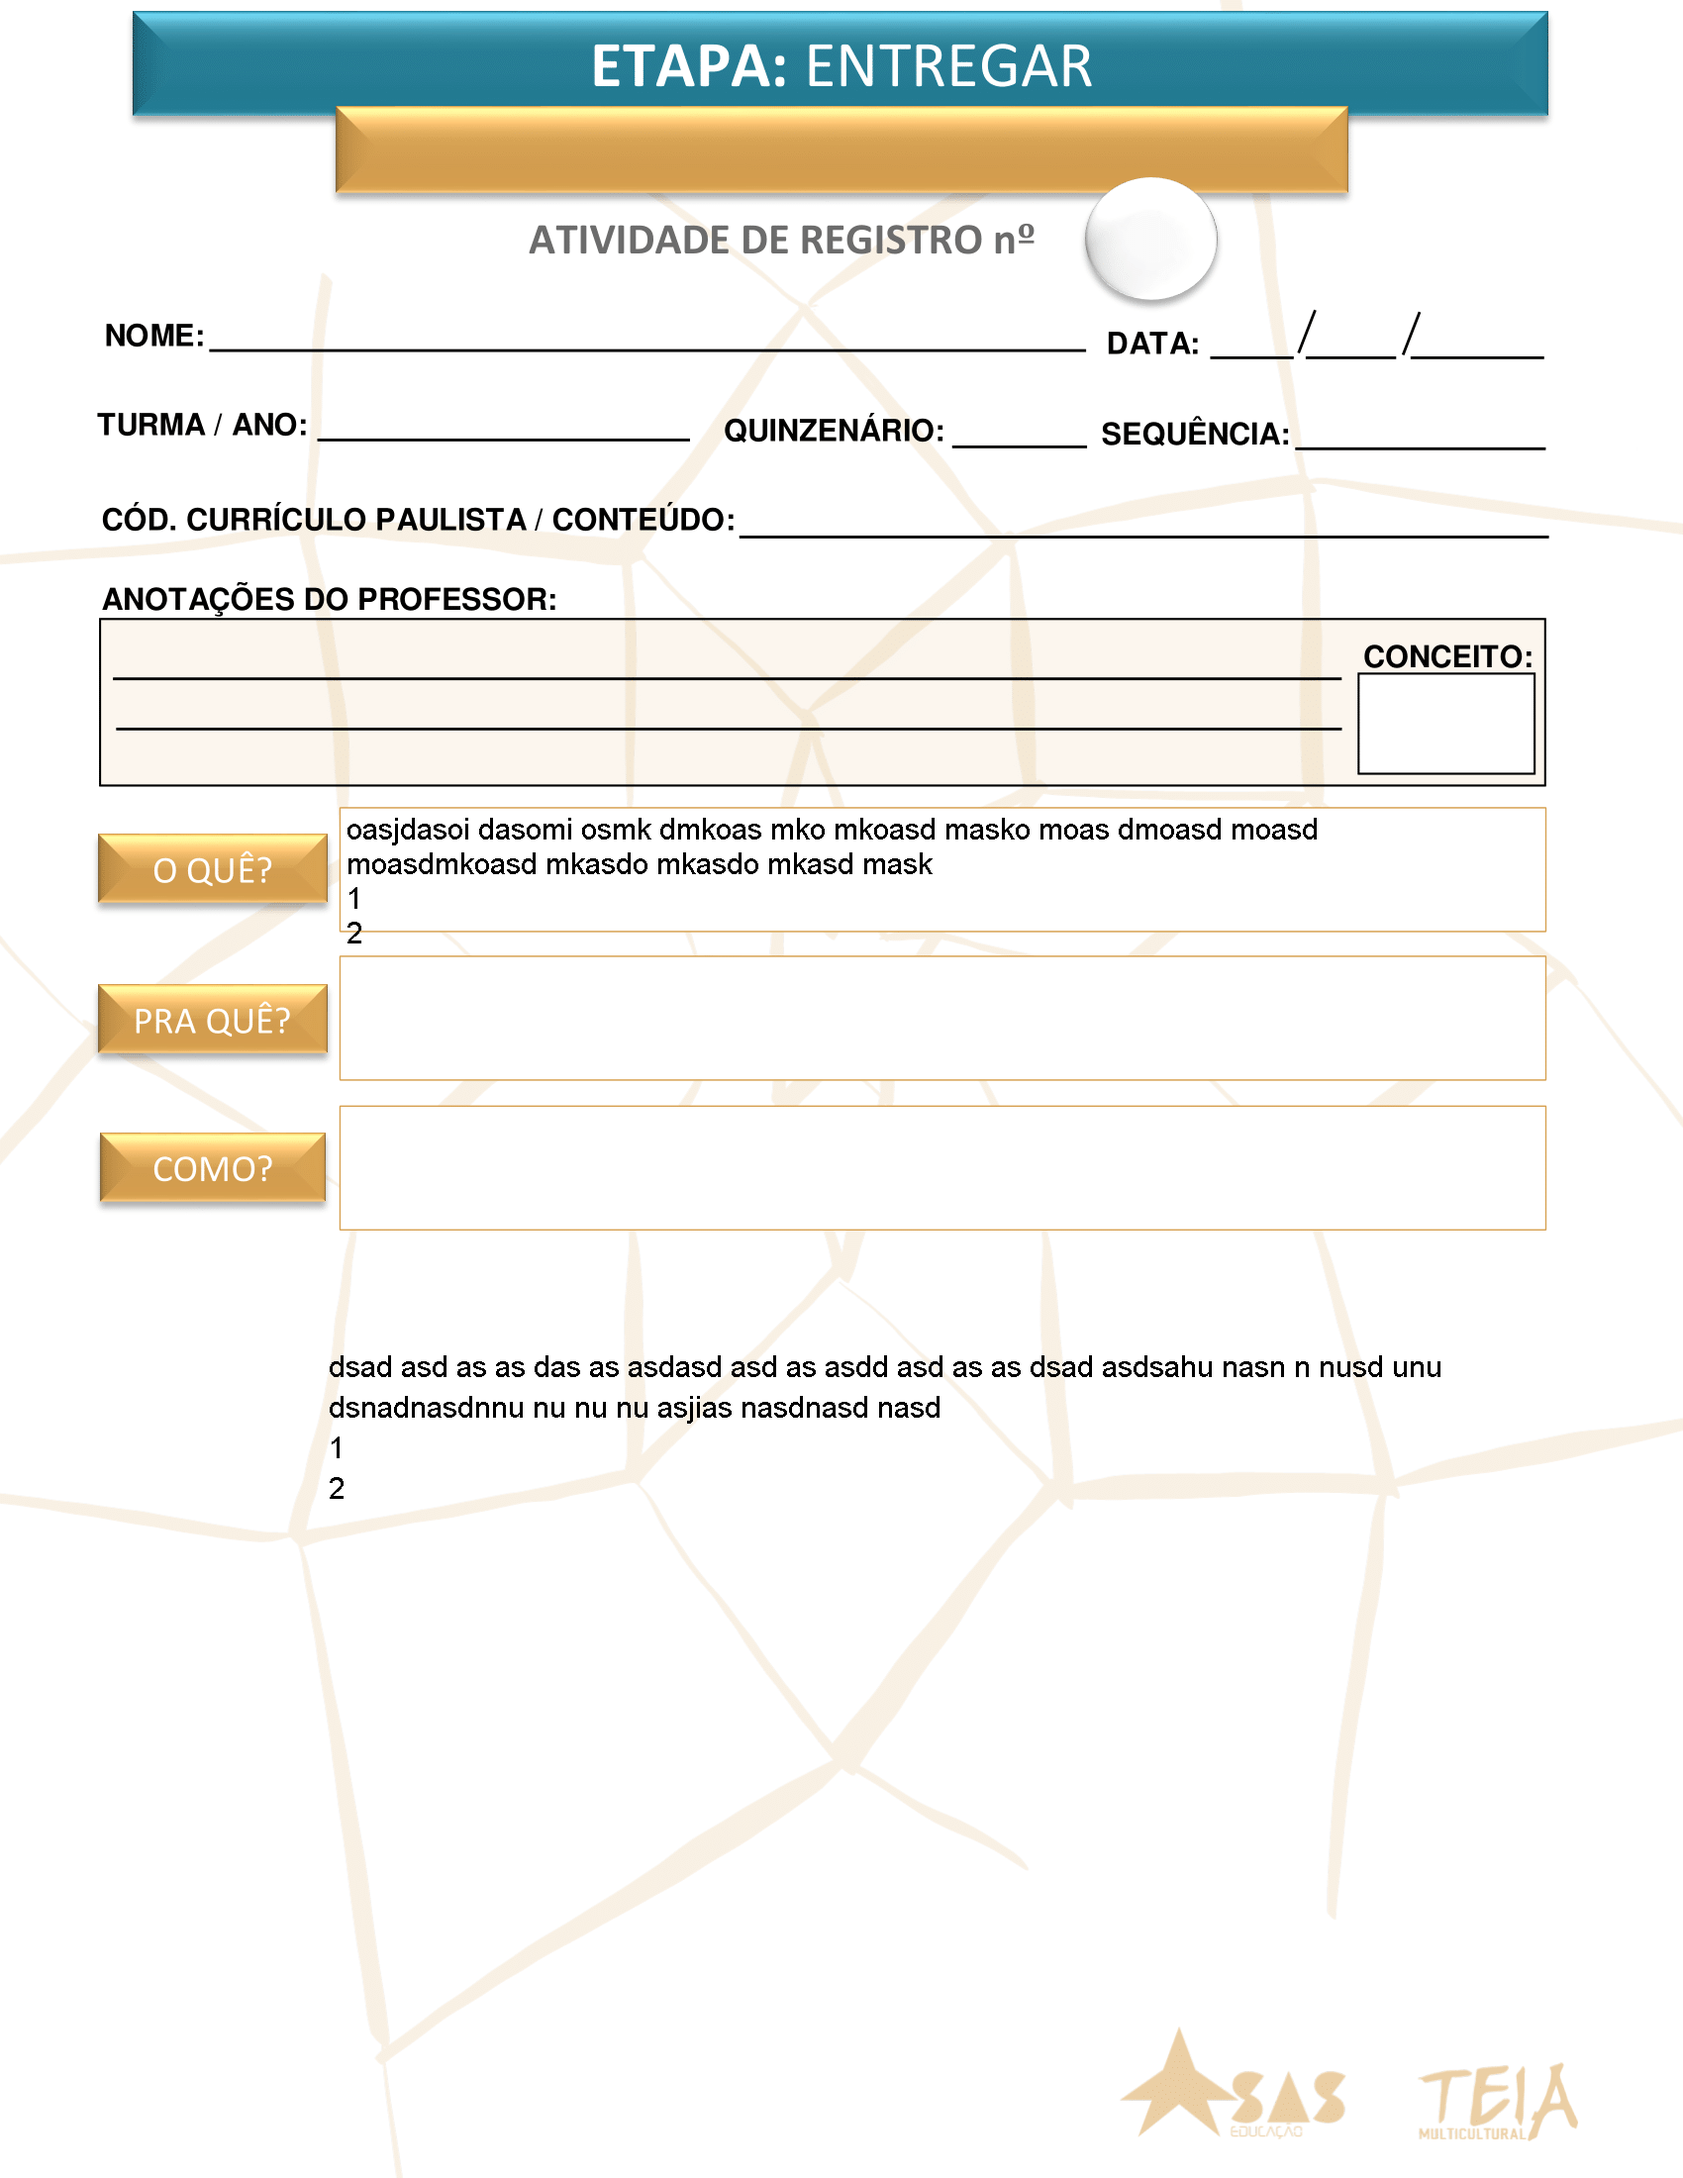
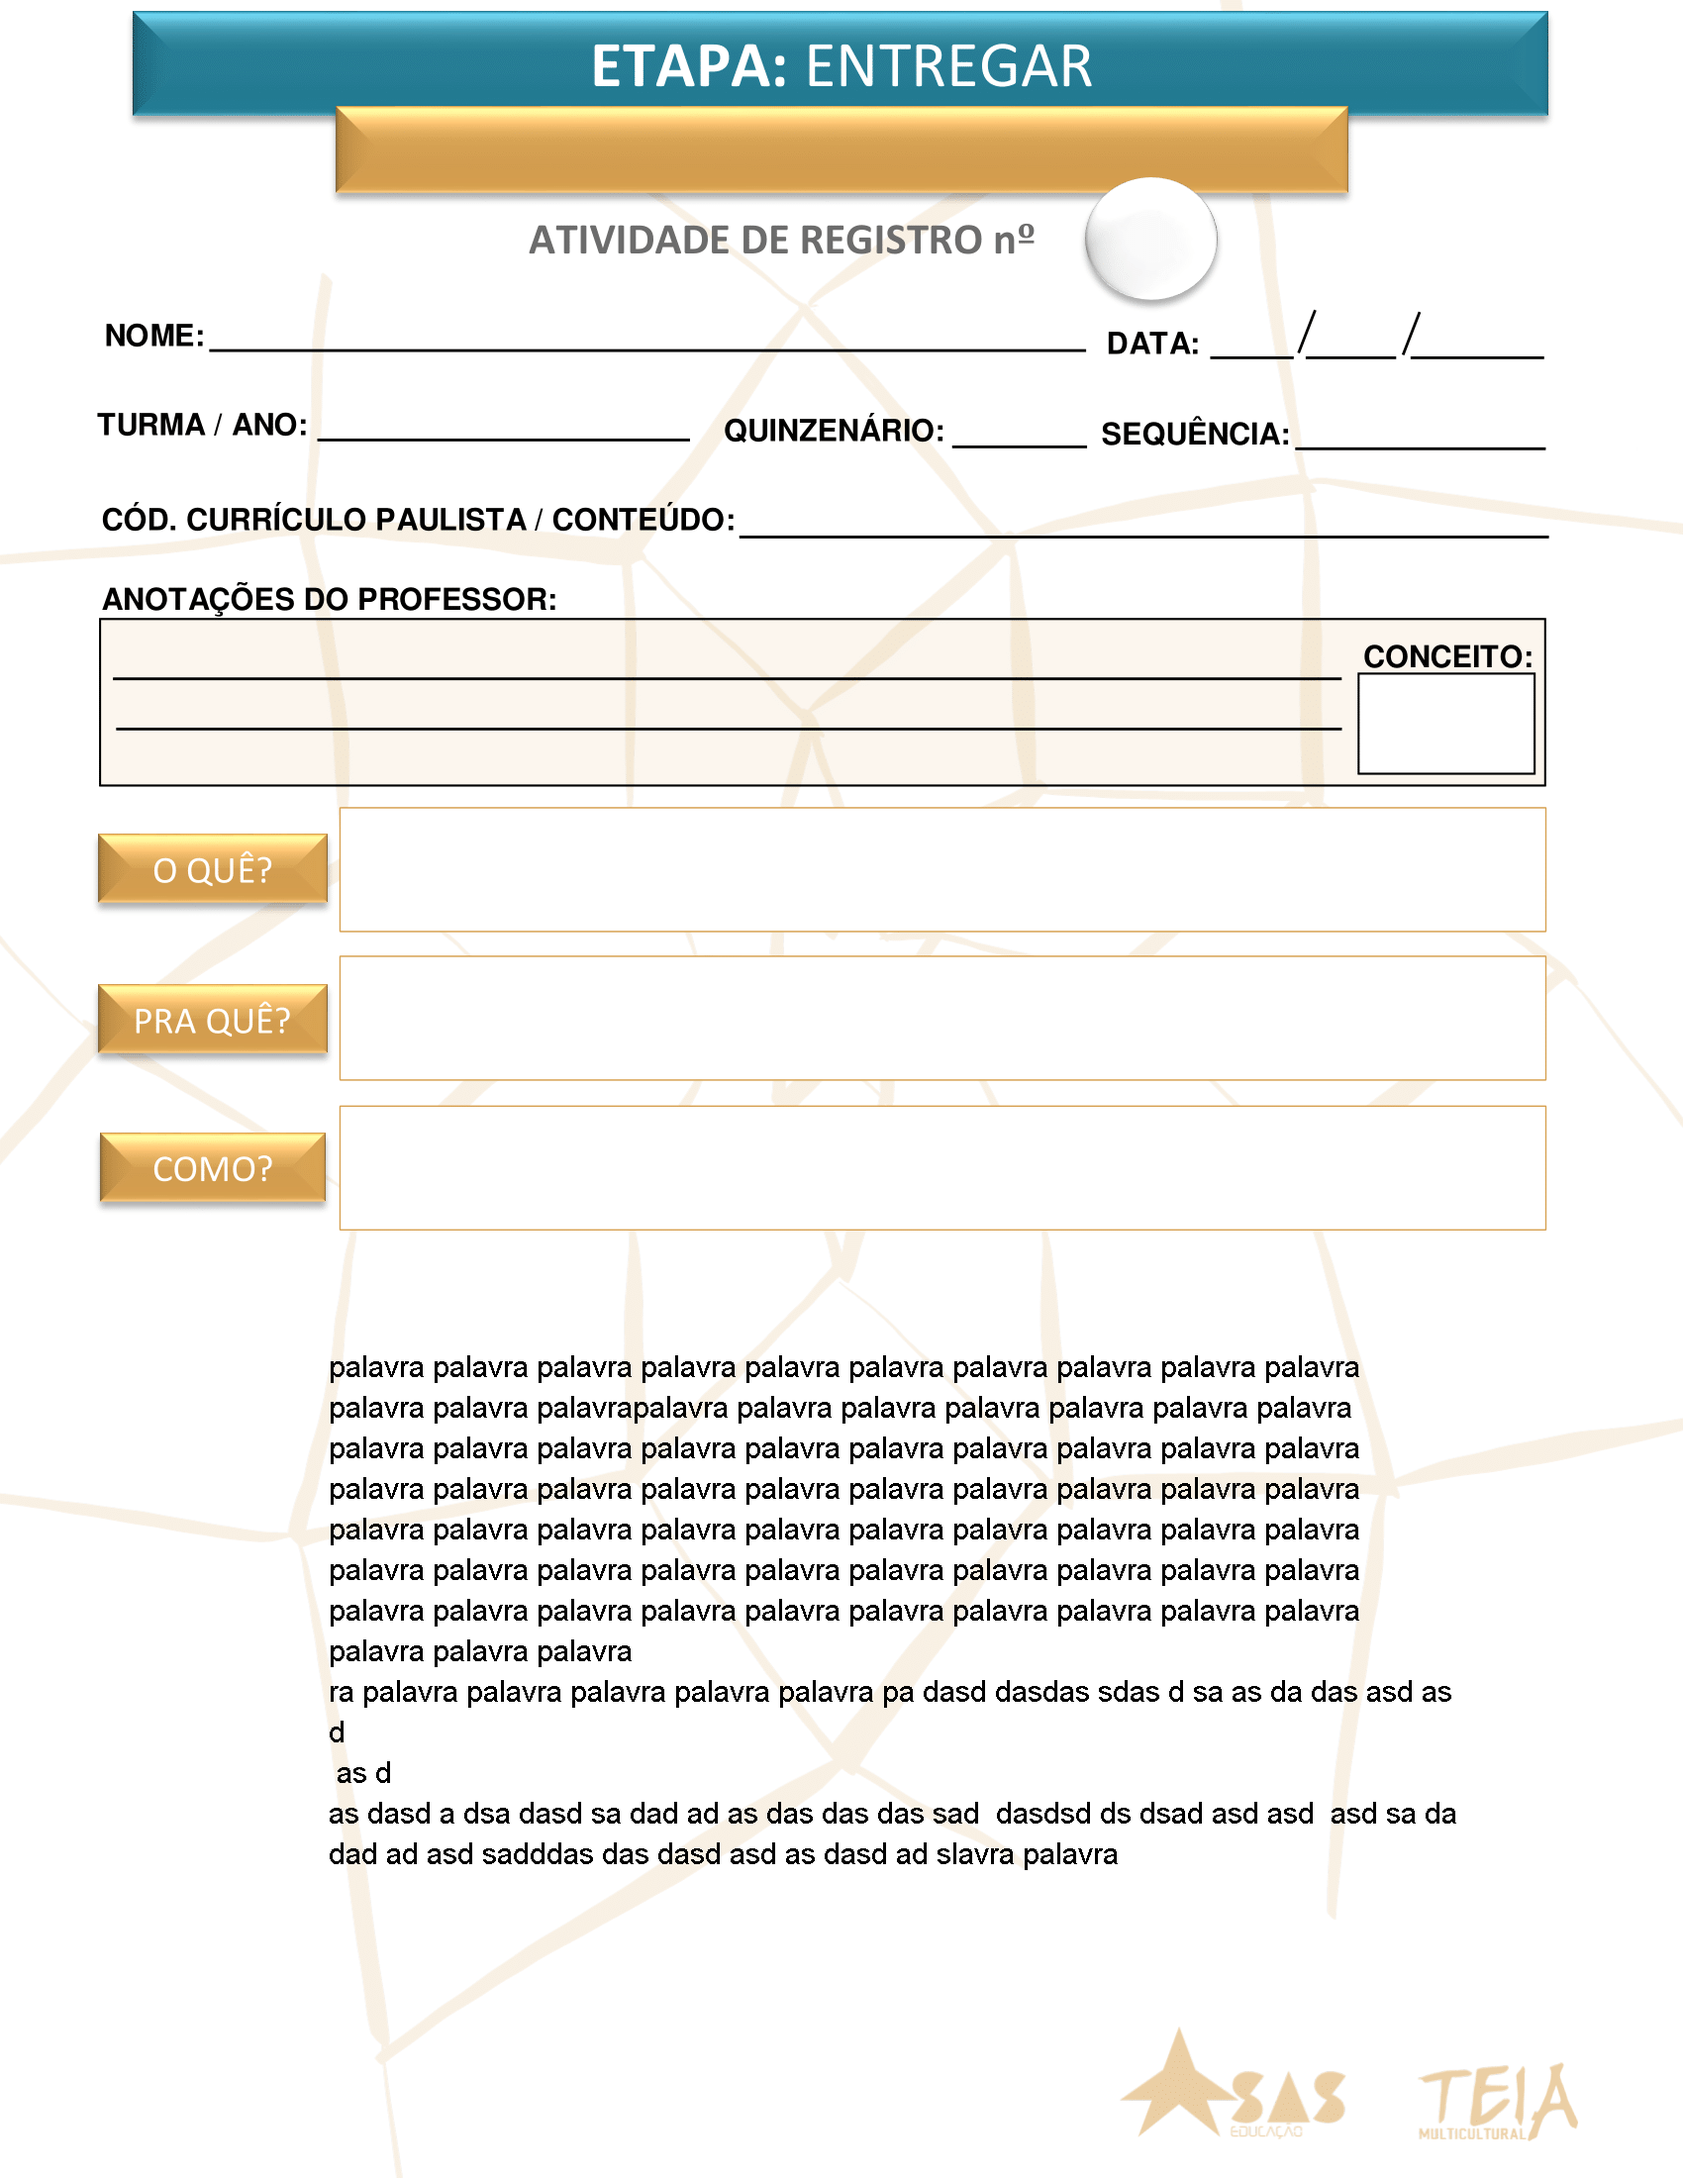
nova logica de contarl inha

diff --git a/script-preencher.py b/script-preencher.py
@@ -17,42 +17,69 @@ def validate_numbers(text):
 def sair():
     window.destroy()
 
-def criar_tudo():
-    strings = criar_primeira_pagina()
-    criar_segunda_pagina()
 
-    pdf_files = ['primeira-pagina.png', 'segunda-pagina.png']
-
-    pdf_writer = PyPDF2.PdfWriter()
-
-    for file_path in pdf_files:
-        if file_path.endswith('.pdf'):
-            with open(file_path, 'rb') as pdf_file:
-                pdf_reader = PyPDF2.PdfReader(pdf_file)
-                for page in pdf_reader.pages:
-                    pdf_writer.add_page(page)
-        elif file_path.endswith('.png'):
-            image = Image.open(file_path)
-            pdf_path = f"{file_path}.pdf"
-            image.save(pdf_path, "PDF", resolution=200)  
-            with open(pdf_path, 'rb') as pdf_file:
-                pdf_reader = PyPDF2.PdfReader(pdf_file)
-                for page in pdf_reader.pages:
-                    pdf_writer.add_page(page)
-            os.remove(pdf_path)
-
-    current_date = datetime.now().strftime("%d_%m_%Y")
-    output_folder = "ABRIR/fichas"
     
-    file_name = f"FICHA-{strings[1]}-{datetime.now().strftime('%d-%m_%Hh%M')}.pdf"
-    output_path = os.path.join(output_folder, file_name)
+def criar_tudo():
+    flag = True
+    instrucoes = instrucoes_text.get("1.0", "end")
+    num_chars = len(instrucoes)
+    num_linebreaks = instrucoes.count('\n')
+    num_lines = num_chars // 65 + num_linebreaks
+    
+    if num_lines > 18:
+        messagebox.showwarning("Limite de linhas excedido", "O texto inserido para as instruções da primeira página pode exceder o limite de linhas. Por favor, revise o texto.")
+        flag = False
+        
+    
+ 
+    instrucoes2 = instrucoes_text2.get("1.0", "end")
+    num_chars2 = len(instrucoes2)
+    num_linebreaks2 = instrucoes2.count('\n')
+    num_lines2 = num_chars2 // 65 + num_linebreaks2
+    
+    if num_lines2 > 65:
+        messagebox.showwarning("Limite de linhas excedido", "O texto inserido para as instruções da segunda página pode exceder o limite de linhas. Por favor, revise o texto.")
+        flag = False
+        
+
+    if flag == True: 
+        
+        strings = criar_primeira_pagina()
+        criar_segunda_pagina()
+
+        pdf_files = ['primeira-pagina.png', 'segunda-pagina.png']
+
+        pdf_writer = PyPDF2.PdfWriter()
+
+        for file_path in pdf_files:
+            if file_path.endswith('.pdf'):
+                with open(file_path, 'rb') as pdf_file:
+                    pdf_reader = PyPDF2.PdfReader(pdf_file)
+                    for page in pdf_reader.pages:
+                        pdf_writer.add_page(page)
+            elif file_path.endswith('.png'):
+                image = Image.open(file_path)
+                pdf_path = f"{file_path}.pdf"
+                image.save(pdf_path, "PDF", resolution=200)  
+                with open(pdf_path, 'rb') as pdf_file:
+                    pdf_reader = PyPDF2.PdfReader(pdf_file)
+                    for page in pdf_reader.pages:
+                        pdf_writer.add_page(page)
+                os.remove(pdf_path)
+
+        current_date = datetime.now().strftime("%d_%m_%Y")
+        output_folder = "ABRIR/fichas"
+        
+        file_name = f"FICHA-{strings[1]}-{datetime.now().strftime('%d-%m_%Hh%M')}.pdf"
+        output_path = os.path.join(output_folder, file_name)
 
 
-    with open(output_path, 'wb') as output_file:
-        pdf_writer.write(output_file)
+        with open(output_path, 'wb') as output_file:
+            pdf_writer.write(output_file)
 
-    os.startfile(output_path)
-
+        os.startfile(output_path)
+        
+    
 def criar_primeira_pagina():
 
     url_font = 'https://github.com/matomo-org/travis-scripts/blob/master/fonts/Arial.ttf?raw=True'
@@ -155,7 +182,7 @@ def criar_primeira_pagina():
 
     return strings
 def wrap_text_with_line_breaks(text, width):
-    lines = text.split("\n")  # Split the text into lines
+    lines = text.split("\n") 
     wrapped_lines = []
 
     for line in lines:
@@ -166,6 +193,8 @@ def wrap_text_with_line_breaks(text, width):
 
 
 
+import textwrap
+
 def criar_segunda_pagina():
     url_font = 'https://github.com/matomo-org/travis-scripts/blob/master/fonts/Arial.ttf?raw=True'
     normal_font = io.BytesIO(urlopen(url_font).read())
@@ -173,14 +202,17 @@ def criar_segunda_pagina():
     firstFont = ImageFont.truetype(normal_font, 30)
 
     instrucoes2 = instrucoes_text2.get("1.0", "end")
-    lines = instrucoes2.splitlines()
+    wrapped_instrucoes = textwrap.wrap(instrucoes2, width=80)
 
     img = Image.open("templates/other-1.png")
     draw = ImageDraw.Draw(img)
-    y=100
-    wrapped_instrucoes = textwrap.wrap(instrucoes2, width=50)
-    img.save("segunda-pagina.png", dpi=(300, 300))
 
+    y = 100
+    for line in wrapped_instrucoes:
+        draw.text((350, y), line, font=firstFont, fill='black')
+        y += 35
+
+    img.save("segunda-pagina.png", dpi=(300, 300))
 
 # Crie a janela principal   
 window = ThemedTk(theme="breeze") 
@@ -341,13 +373,13 @@ sair_button.pack(side="left", padx=10)
 criar_button = tk.Button(button_frame, text="CRIAR", command=criar_tudo, bg="#90EE90", relief="solid", bd=0)
 criar_button.pack(side="left", padx=10)
 
-instrucoes_text.bind("<Key>", lambda event: validate_input_generico(event, instrucoes_text, 40, 770))
-instrucoes_text.bind("<KeyRelease>", lambda event: validate_input_generico(event, instrucoes_text, 40, 770))
-instrucoes_text.bind("<Control-v>", lambda event: validate_paste_generico(event, instrucoes_text, 770))
+instrucoes_text.bind("<Key>", lambda event: validate_input_generico(event, instrucoes_text, 40, 1300))
+instrucoes_text.bind("<KeyRelease>", lambda event: validate_input_generico(event, instrucoes_text, 40, 1300))
+instrucoes_text.bind("<Control-v>", lambda event: validate_paste_generico(event, instrucoes_text, 1300))
 
-instrucoes_text2.bind("<Key>", lambda event: validate_input_generico(event, instrucoes_text2, 22, 3340))
-instrucoes_text2.bind("<KeyRelease>", lambda event: validate_input_generico(event, instrucoes_text2, 22, 3430))
-instrucoes_text2.bind("<Control-v>", lambda event: validate_paste_generico(event, instrucoes_text2, 4344))
+instrucoes_text2.bind("<Key>", lambda event: validate_input_generico(event, instrucoes_text2, 22, 4000))
+instrucoes_text2.bind("<KeyRelease>", lambda event: validate_input_generico(event, instrucoes_text2, 22, 4000))
+instrucoes_text2.bind("<Control-v>", lambda event: validate_paste_generico(event, instrucoes_text2,4000 ))
 
 
 como_text.bind("<Key>", lambda event: validate_input_generico(event, como_text, 3, 200))
